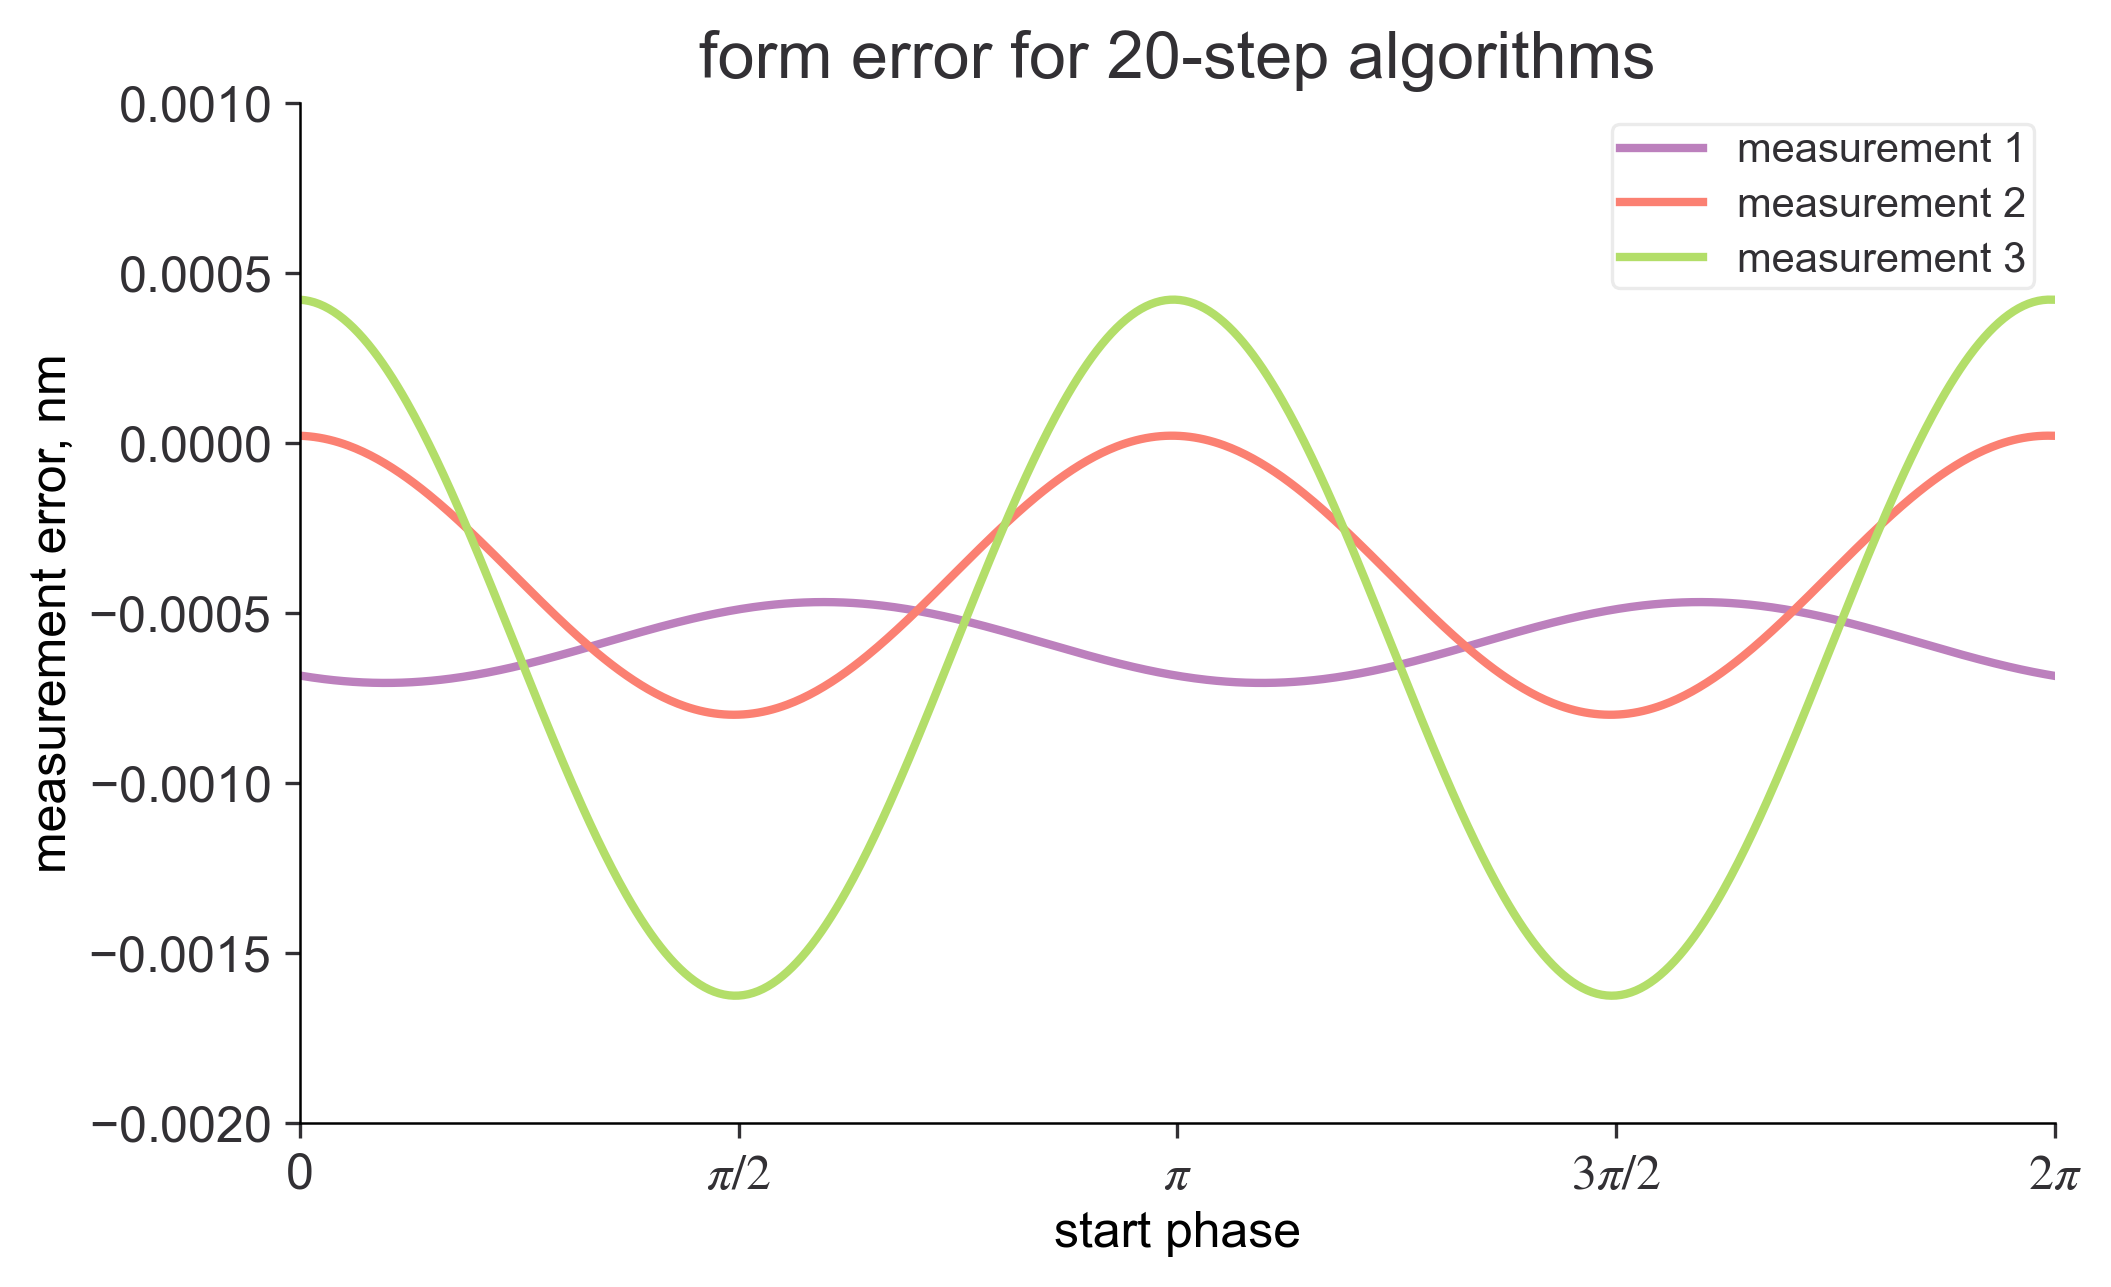
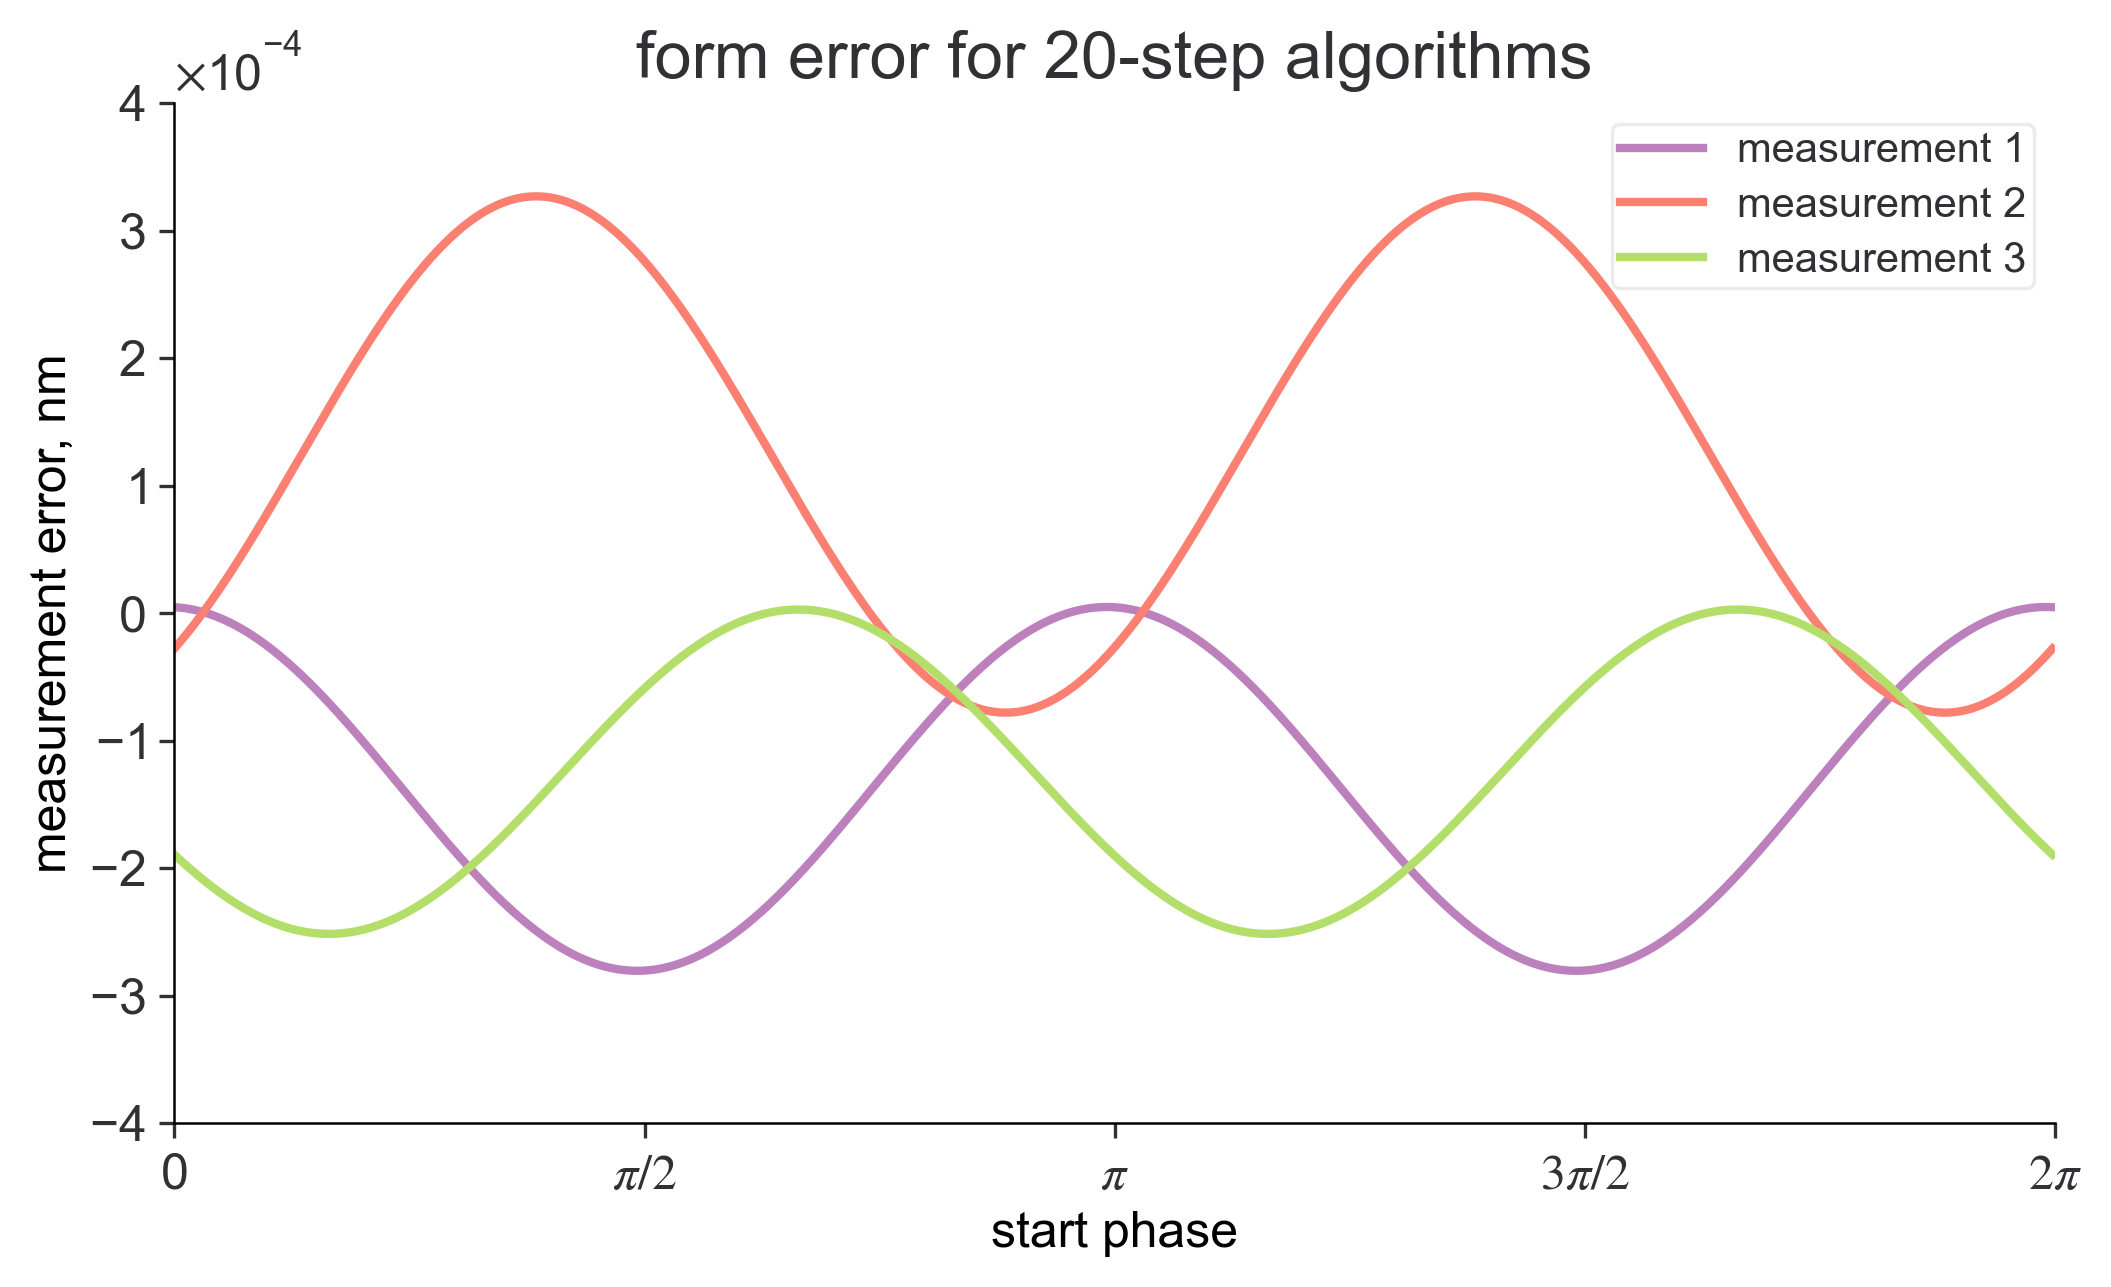
function of PSI

diff --git a/N-Step-Diagram.py b/N-Step-Diagram.py
@@ -77,12 +77,12 @@ plt.show(block=1)
 n = [3, 4, 8, 20]
 for i in n:
     Form, _ = n_step_single_line(step=i)
-
+    Form_free, _ = n_step_single_line(step=i, mu_phase=0,loop=1)
     plt.style.use('scientific')
     plt.figure()
-    plt.plot(outlier_delete(Form[0] - np.average(Form, 0)), label='measurement 1')
-    plt.plot(outlier_delete(Form[1] - np.average(Form, 0)), label='measurement 2')
-    plt.plot(outlier_delete(Form[2] - np.average(Form, 0)), label='measurement 3')
+    plt.plot(outlier_delete(Form[0] - Form_free[0]), label='measurement 1')
+    plt.plot(outlier_delete(Form[1] - Form_free[0]), label='measurement 2')
+    plt.plot(outlier_delete(Form[2] - Form_free[0]), label='measurement 3')
 
     plt.title('form error for {}-step algorithms'.format(i))
     plt.xlabel('start phase')
@@ -98,12 +98,13 @@ for i in n:
 n = [3, 4, 8]
 for i in n:
     Form, std = three_Sampling_Points(step=i)
-    std_new = outlier_delete(std)
+    Form_free, _=three_Sampling_Points(step=i, mu_phase=0)
+
     plt.style.use('scientific')
     plt.figure()
-    plt.plot(outlier_delete(Form[0] - np.average(Form, 0)), label='measurement 1')
-    plt.plot(outlier_delete(Form[1] - np.average(Form, 0)), label='measurement 2')
-    plt.plot(outlier_delete(Form[2] - np.average(Form, 0)), label='measurement 3')
+    plt.plot(outlier_delete(Form[0] - Form_free[0]), label='measurement 1')
+    plt.plot(outlier_delete(Form[1] - Form_free[0]), label='measurement 2')
+    plt.plot(outlier_delete(Form[2] - Form_free[0]), label='measurement 3')
 
     plt.title('form error for non-linear algorithms(sampling frequency={})'.format(i))
     plt.xlabel('start phase')
